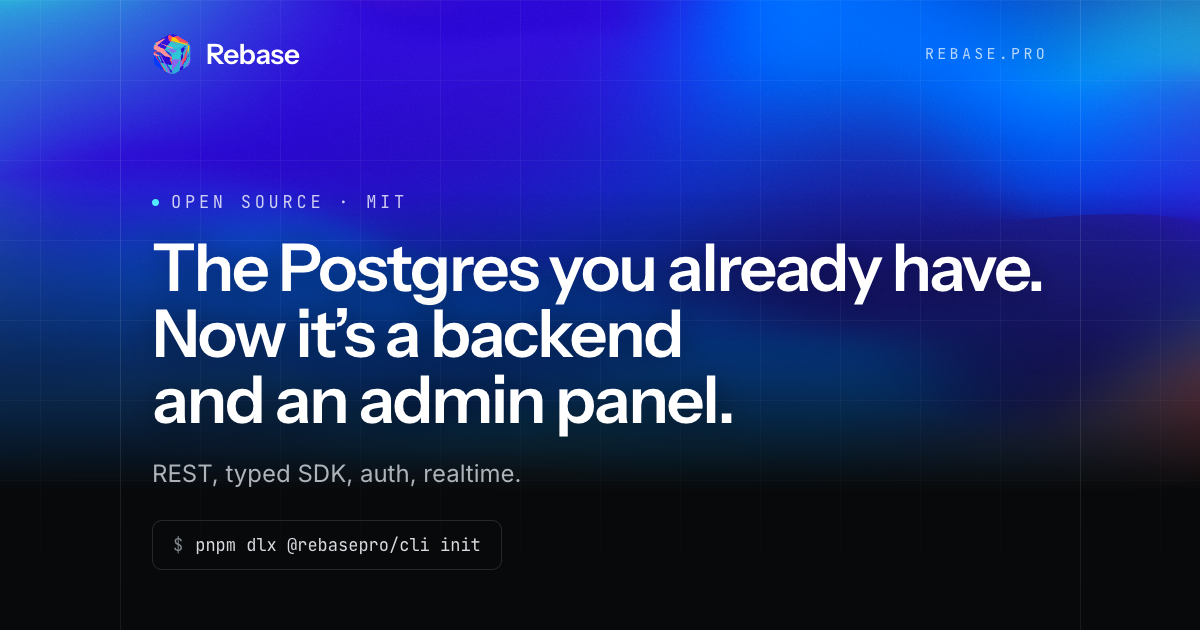
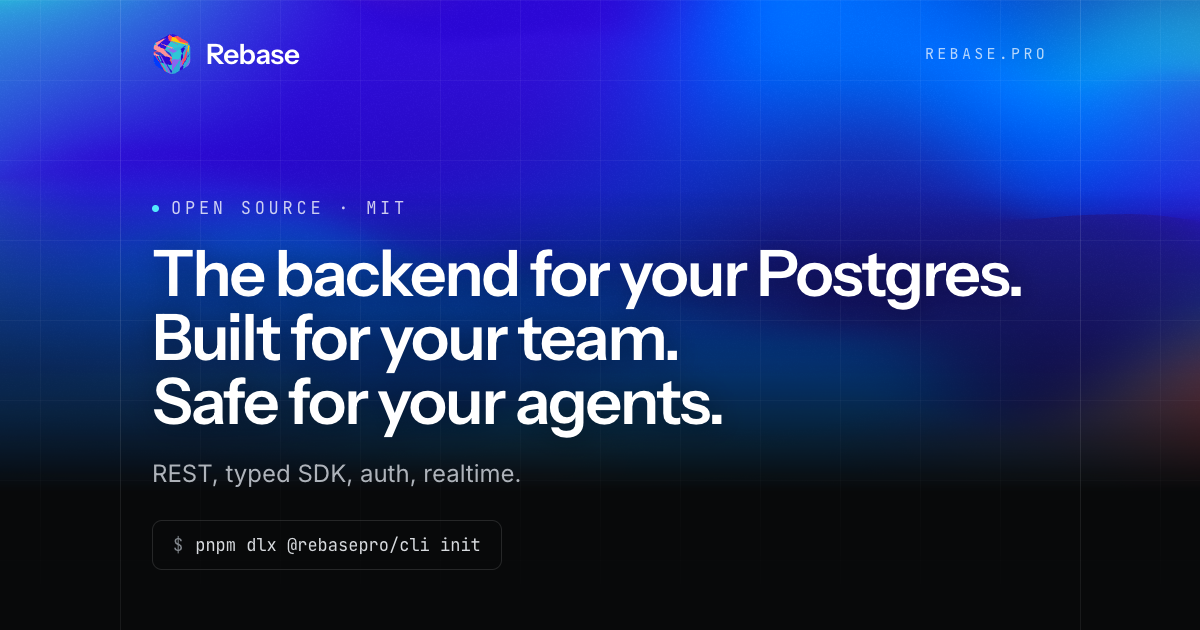
fix(website): the home headline is back to "The backend for your Postgres."; its OG card and social preview with it
19fcb96416 swapped the hero headline for the instrument prototype's copy
without asking. Restored in en/de/es/fr; the home OG card and the GitHub
social preview regenerated.

Changed region(s): [[0.1233, 0.3619, 0.8633, 0.6937], [0.1233, 0.3016, 0.2775, 0.3317], [0.3083, 0.3016, 0.3392, 0.3317]]

diff --git a/website/src/i18n/fr.ts b/website/src/i18n/fr.ts
@@ -15,8 +15,8 @@ export const fr = {
   "hero.spec.heritage.value": "Plus de 10 000 projets FireCMS",
   "hero.spec.audit": "Audit",
   "hero.spec.license": "Licence",
-  "hero.title.part1": "Le Postgres que vous avez déjà.",
-  "hero.title.part2": "C’est désormais un backend et un panneau d’administration.",
+  "hero.title.part1": "Le backend pour votre Postgres.",
+  "hero.title.part2": "Conçu pour votre équipe. Sûr pour vos agents.",
   "hero.cta.demo": "Tester la démo",
   "rlscheck.title": "Ne nous croyez pas sur parole.",
   "rlscheck.subtitle": "<code class=\"font-mono text-surface-300\">rls-check</code> lit le catalogue de votre base de données et rapporte ce qui est réellement exposé — des tables servies avec la sécurité au niveau des lignes désactivée, des politiques vraies pour tout le monde, des vues qui contournent la RLS de leurs tables de base. Quinze contrôles. N'importe quel Postgres : Supabase, Neon, RDS, votre propre serveur. Il est en lecture seule, ne demande aucun compte, et se moque de savoir si vous utilisez Rebase.",

diff --git a/website/src/i18n/es.ts b/website/src/i18n/es.ts
@@ -15,8 +15,8 @@ export const es = {
   "hero.spec.heritage.value": "Más de 10.000 proyectos FireCMS",
   "hero.spec.audit": "Auditoría",
   "hero.spec.license": "Licencia",
-  "hero.title.part1": "El Postgres que ya tienes.",
-  "hero.title.part2": "Ahora es un backend y un panel de administración.",
+  "hero.title.part1": "El backend para tu Postgres.",
+  "hero.title.part2": "Hecho para tu equipo. Seguro para tus agentes.",
   "hero.cta.demo": "Probar la demo",
   "rlscheck.title": "No te fíes de nuestra palabra.",
   "rlscheck.subtitle": "<code class=\"font-mono text-surface-300\">rls-check</code> lee el propio catálogo de tu base de datos y reporta lo que está realmente expuesto — tablas servidas con la seguridad a nivel de fila desactivada, políticas que evalúan a verdadero para todo el mundo, vistas que leen esquivando la RLS de sus tablas base. Quince comprobaciones. Cualquier Postgres: Supabase, Neon, RDS, tu propio servidor. Es de solo lectura, no necesita cuenta y le da igual si usas Rebase.",

diff --git a/website/src/i18n/de.ts b/website/src/i18n/de.ts
@@ -15,8 +15,8 @@ export const de = {
   "hero.spec.heritage.value": "10.000+ FireCMS-Projekte",
   "hero.spec.audit": "Audit",
   "hero.spec.license": "Lizenz",
-  "hero.title.part1": "Das Postgres, das du schon hast.",
-  "hero.title.part2": "Jetzt ist es ein Backend und ein Admin-Panel.",
+  "hero.title.part1": "Das Backend für dein Postgres.",
+  "hero.title.part2": "Gebaut für dein Team. Sicher für deine Agenten.",
   "hero.cta.demo": "Demo testen",
   "rlscheck.title": "Glaub uns das nicht einfach.",
   "rlscheck.subtitle": "<code class=\"font-mono text-surface-300\">rls-check</code> liest den Katalog deiner eigenen Datenbank und meldet, was tatsächlich offen liegt — Tabellen, die mit abgeschalteter Row-Level Security ausgeliefert werden, Policies, die für jeden wahr sind, Views, die an der RLS ihrer Basistabellen vorbeilesen. Fünfzehn Checks. Jedes Postgres: Supabase, Neon, RDS, dein eigener Server. Es liest nur, braucht keinen Account, und es ist ihm egal, ob du Rebase benutzt.",

diff --git a/website/src/i18n/en.ts b/website/src/i18n/en.ts
@@ -15,8 +15,8 @@ export const en = {
   "hero.spec.heritage.value": "10,000+ FireCMS projects",
   "hero.spec.audit": "Audit",
   "hero.spec.license": "License",
-  "hero.title.part1": "The Postgres you already have.",
-  "hero.title.part2": "Now it’s a backend and an admin panel.",
+  "hero.title.part1": "The backend for your Postgres.",
+  "hero.title.part2": "Built for your team. Safe for your agents.",
   "hero.cta.demo": "Try the demo",
 
   // Free-tool section. The copy stays useful to someone who will never adopt
